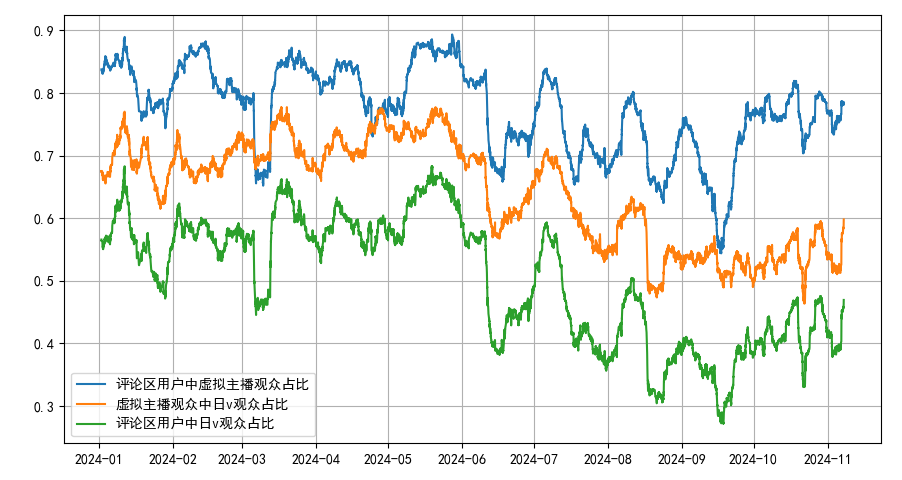
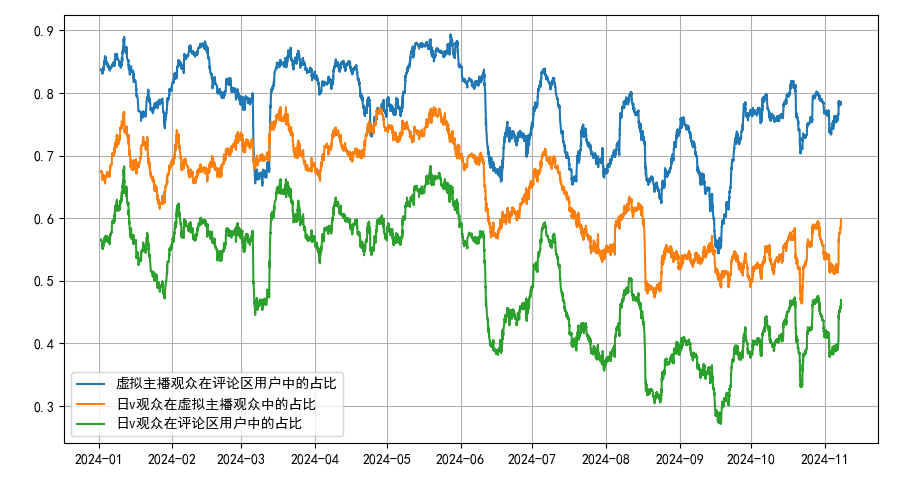
更新

diff --git a/comment_user/README.md b/comment_user/README.md
@@ -1,4 +1,4 @@
-# 今年来真红莉爱评论区的用户成分变化情况
+# 真红莉爱今年评论区的用户成分变化情况
 从不同虚拟主播的动态（包括投稿）评论区收集用户，虚拟主播名单来自vtbs，收集了328817个用户。如果一个用户有某个虚拟主播的粉丝团灯牌或者评论过3条以上，则用户视为这个虚拟主播的“有效粉丝”。至少是1个虚拟主播的“有效粉丝”的人视为“虚拟主播观众”，至少是3个日本虚拟主播的“有效粉丝”的人视为“日v观众”。
 
 收集今年以来在真红莉爱的评论区出现的所有评论，共收集到32909条。根据前面统计得到的用户分类，计算了不同时间段里发送评论的不同类型的用户的比例，结果如图。图中曲线的每个点都代表一个时间段内统计出的比例，时间段是这个点所在位置之后的7天之内，例如x轴位置是1月1日的点表示的是1月1日到1月7日这个时间内的统计结果。
